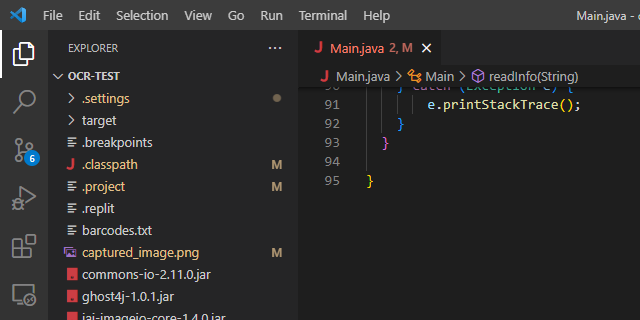
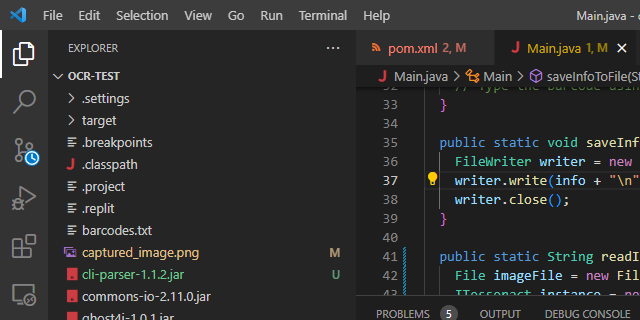
not running .. likely issue with dependencies

diff --git a/Main.java b/Main.java
@@ -15,7 +15,6 @@ import java.util.ArrayList;
 import javax.imageio.ImageIO;
 
 public class Main {
-
   public static List<String> readBarcodesFromFile(String filename) throws IOException {
     List<String> barcodes = new ArrayList<>();
     BufferedReader reader = new BufferedReader(new FileReader(filename));
@@ -39,21 +38,13 @@ public class Main {
     writer.close();
   }
 
-  public static String readInfo(String imagePath) throws IOException {
-    String line;
-    StringBuilder sb = new StringBuilder();
-
-    String[] cmd = {"C:\\Users\\Grandkids\\AppData\\Local\\Programs\\Python\\Python311\\python.exe", "tesseract_ocr.py", imagePath};
-
-    ProcessBuilder processBuilder = new ProcessBuilder(cmd);
-    Process process = processBuilder.start();
-    BufferedReader reader = new BufferedReader(new InputStreamReader(process.getInputStream()));
-
-    while ((line = reader.readLine()) != null) {
-      sb.append(line);
-    }
-
-    return sb.toString();
+  public static String readInfo(String imagePath) throws TesseractException {
+    File imageFile = new File(imagePath);
+    ITesseract instance = new Tesseract();
+    instance.setDatapath("tessdata");
+    instance.setLanguage("eng");
+    String result = instance.doOCR(imageFile);
+    return result;
   }
 
   public static void main(String[] args) {
@@ -73,23 +64,22 @@ public class Main {
       Rectangle infoRect = new Rectangle(x, y, width, height);
 
       for (String barcode : barcodes) {
-          enterBarcode(robot, barcode);
-          try {
-              Thread.sleep(1000); // Wait for the application to process the barcode
-          } catch (InterruptedException e) {
-              e.printStackTrace();
-          }
-
-          BufferedImage image = robot.createScreenCapture(infoRect);
-          String imagePath = "captured_image.png";
-          ImageIO.write(image, "png", new File(imagePath));
-
-          String info = readInfo(imagePath);
-          saveInfoToFile(info, outputFilename);
+        enterBarcode(robot, barcode);
+        try {
+            Thread.sleep(1000); // Wait for the application to process the barcode
+        } catch (InterruptedException e) {
+            e.printStackTrace();
         }
+
+        BufferedImage image = robot.createScreenCapture(infoRect);
+        String imagePath = "captured_image.png";
+        ImageIO.write(image, "png", new File(imagePath));
+
+        String info = readInfo(imagePath);
+        saveInfoToFile(info, outputFilename);
+      }
     } catch (Exception e) {
         e.printStackTrace();
     }
   }
-
 }
